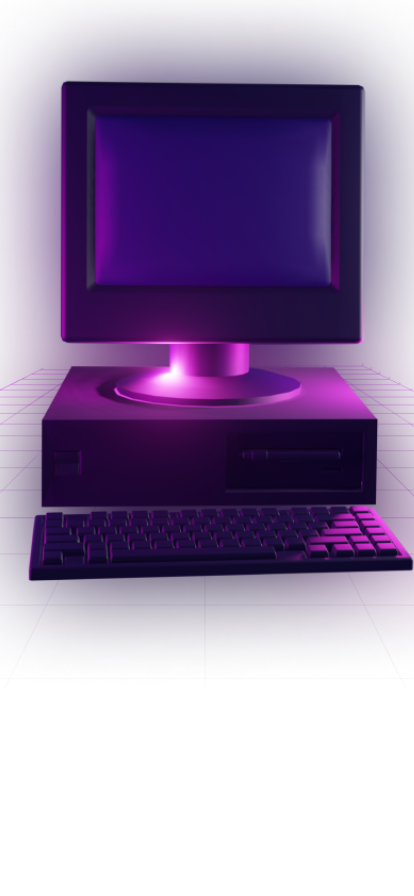
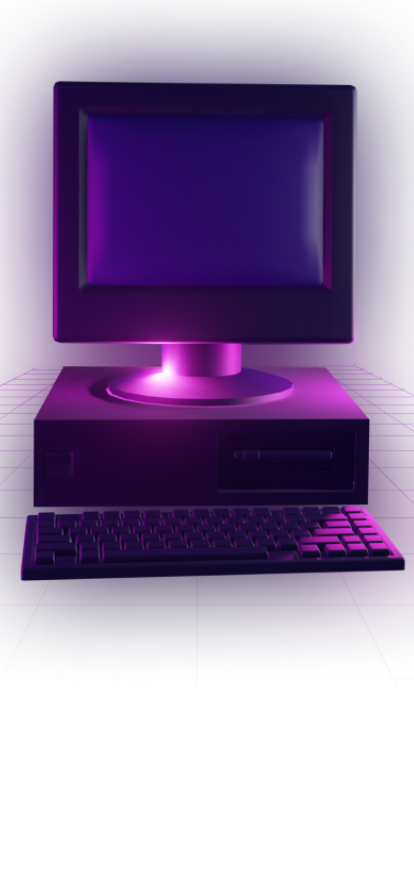
General responsive and some 2k display styles

diff --git a/packages/web/components/Landing/WhatDo.tsx b/packages/web/components/Landing/WhatDo.tsx
@@ -26,16 +26,19 @@ export const WhatDo: React.FC = () => {
   return (
     <FullPageContainer
       bgImageUrl={responsiveBg}
-      backgroundBlendMode={{ base: 'normal', lg: 'normal' }}
+      backgroundBlendMode="normal"
+      backgroundPosition={{ base: 'top', xl: 'center' }}
+      backgroundSize={{ base: 'contain', xl: 'cover' }}
+      backgroundRepeat="no-repeat"
       id={section}
       position="relative"
       overflow="clip"
     >
       <Container
         d="flex"
-        maxW={{ base: '100%', md: 'xl', lg: '7xl', '2xl': '8xl' }}
+        maxW={{ base: '100%', md: 'xl', lg: '7xl', '2xl': '8xl', '4xl': '70%' }}
         height="100%"
-        alignItems="center"
+        alignItems={{ base: 'flex-start', xl: 'center' }}
         justifyContent="center"
       >
         <Box
@@ -43,15 +46,22 @@ export const WhatDo: React.FC = () => {
           display="flex"
           flexDirection="column"
           justifyContent={{ base: 'flex-start', xl: 'center' }}
-          fontSize={{ base: 'md', md: 'xl', xl: '3xl', '2xl': '3xl' }}
+          fontSize={{ base: 'md', md: 'xl', xl: 'xl', '2xl': '3xl' }}
           lineHeight={{
             base: '1.25rem',
             md: '2.4rem',
             xl: '2rem',
             '2xl': '2.5rem',
           }}
-          maxWidth={{ base: '90%', md: '3xl', xl: '6xl', '2xl': '8xl' }}
-          maxH={{ base: '70%', md: '90%', xl: 'initial' }}
+          maxWidth={{
+            base: '90%',
+            md: '3xl',
+            xl: '5xl',
+            '2xl': '8xl',
+            '4xl': '100%',
+          }}
+          maxH={{ base: '60%', md: '90%', lg: 'initial' }}
+          mt={{ base: '50%', xl: 'unset' }}
           overflowY={{ base: 'auto', xl: 'visible' }}
           pl={{ base: 0, md: 0 }}
           zIndex={100}
@@ -64,7 +74,11 @@ export const WhatDo: React.FC = () => {
               fontSize: { base: 'xl', md: '3xl', xl: '3xl', '2xl': '4xl' },
               textAlign: 'center',
               textShadow: '0 0 5px var(--chakra-colors-landing500)',
-              transform: { base: 'none', xl: 'translate3d(0, 10px, 0)' },
+              transform: {
+                base: 'none',
+                xl: 'translate3d(0, 15px, 0)',
+                '4xl': 'translate3d(0, -60px, 0)',
+              },
             },
           }}
         >
@@ -74,12 +88,10 @@ export const WhatDo: React.FC = () => {
           <UnorderedList
             d={{ base: 'flex', lg: 'grid' }}
             flexFlow={{ base: 'column wrap', lg: 'unset' }}
-            // maxH="50%"
-            pb={{ base: 2, xl: 3, '2xl': '2.188rem' }}
+            pb={{ base: 2, xl: 0, '2xl': '2.188rem' }}
             listStyleType="none"
-            mt={{ base: 3, '2xl': -14 }}
+            mt={{ base: 8, xl: 0, '2xl': -14 }}
             ml={0}
-            // opacity="0.8"
             sx={{
               gridTemplateAreas: {
                 base: 'unset',
@@ -90,23 +102,23 @@ export const WhatDo: React.FC = () => {
               li: {
                 flex: { base: '0 0 100%' },
                 width: { base: '100%' },
-                mb: { base: 4, '2xl': 20 },
+                mb: { base: 4, xl: 8, '2xl': 14 },
                 h3: {
-                  fontSize: { base: 'lg', '2xl': '2xl' },
-                  lineHeight: { base: 'lg', '2xl': '1.7rem' },
-                  mb: { base: 2, md: 2 },
+                  fontSize: { base: 'lg', xl: 'xl', '2xl': '2xl' },
+                  lineHeight: { base: '1.25rem', '2xl': '1.75rem' },
+                  mb: { base: 0, '2xl': 2 },
                   span: {
                     color: 'landing300',
                     display: { base: 'inline', xl: 'block' },
-                    fontSize: { base: 'md', md: 'lg', '2xl': 'md' },
+                    fontSize: 'md',
                     pr: { base: 2, xl: 0 },
                     pl: { base: 0, xl: 2 },
-                    pb: { base: 0, md: 0, lg: 3, '2xl': 0 },
+                    pb: { base: 0, md: 0, '2xl': 0 },
                   },
                 },
                 p: {
                   fontSize: { base: 'sm', md: 'lg', xl: 'md', '2xl': 'md' },
-                  lineHeight: { base: '1.25rem', md: '1.75rem', lg: 'md' },
+                  lineHeight: { base: '1.25rem', '2xl': '1.75rem' },
                 },
               },
             }}
@@ -154,7 +166,7 @@ export const WhatDo: React.FC = () => {
 
           <Text
             fontWeight={700}
-            width={{ base: '95%', xl: '70%', '2xl': '50%' }}
+            width={{ base: '95%', xl: '100%', '2xl': '50%' }}
             align="center"
             mx="auto"
           >

diff --git a/packages/web/components/Landing/WildWeb.tsx b/packages/web/components/Landing/WildWeb.tsx
@@ -19,15 +19,20 @@ export const WildWeb: React.FC = () => {
   return (
     <FullPageContainer
       bgImageUrl={responsiveBg}
-      backgroundBlendMode={{ base: 'normal', lg: 'normal' }}
-      backgroundColor="#120030"
+      backgroundBlendMode="normal"
       backgroundPosition="center"
       id={section}
       position="relative"
     >
       <Container
         d="flex"
-        maxW={{ base: '100%', md: 'xl', lg: '7xl', '2xl': 'full' }}
+        maxW={{
+          base: '100%',
+          md: 'xl',
+          lg: '7xl',
+          '2xl': 'full',
+          '4xl': '90%',
+        }}
         px={{ base: 'inherit', lg: 14 }}
         height="100%"
         alignItems="center"
@@ -38,7 +43,7 @@ export const WildWeb: React.FC = () => {
           display="flex"
           flexDirection="column"
           justifyContent="center"
-          maxWidth={{ base: '90%', md: '3xl', xl: '6xl', '2xl': 'xl' }}
+          maxWidth={{ base: '90%', md: 'sm', '2xl': 'xl' }}
           fontSize={{ base: 'lg', '2xl': '2xl' }}
           lineHeight={{ base: 'lg', '2xl': '2xl' }}
           fontWeight="normal"

diff --git a/packages/web/components/Landing/Build.tsx b/packages/web/components/Landing/Build.tsx
@@ -32,9 +32,9 @@ export const Build: React.FC = () => {
           md: 'xl',
           lg: '7xl',
           '2xl': 'full',
-          '3xl': '8xl',
+          '4xl': '80%',
         }}
-        px={{ base: 'inherit', lg: 20, '3xl': 0 }}
+        px={{ base: 'inherit', lg: 20, '4xl': 0 }}
         height="100%"
         alignItems="center"
         justifyContent={{ base: 'center', lg: 'flex-end' }}
@@ -45,7 +45,7 @@ export const Build: React.FC = () => {
           justify="center"
           fontSize={{ base: 'lg', '2xl': '2xl' }}
           lineHeight={{ base: 'lg', '2xl': '2xl' }}
-          maxWidth={{ base: '90%', md: '3xl', xl: '6xl', '2xl': 'xl' }}
+          maxWidth={{ base: '90%', md: 'sm', '2xl': 'xl' }}
           pl={0}
           zIndex={100}
           transform={`translate3d(0, ${onScreen ? 0 : '50px'}, 0)`}

diff --git a/packages/web/components/Landing/JoinUs.tsx b/packages/web/components/Landing/JoinUs.tsx
@@ -128,11 +128,11 @@ export const JoinUs: React.FC = () => {
           alignItems="center"
           justifyContent="space-between"
           position={{ base: 'fixed', md: 'absolute' }}
-          bottom={{ base: 0, md: 16, xl: 0, '2xl': 0 }}
+          bottom={{ base: 0, md: 16, xl: 0, '2xl': 0, '4xl': 5 }}
           height="75px"
           maxH="75px"
           width="100%"
-          maxW={{ base: '90%', md: 'lg', lg: 'md', '2xl': '2xl' }}
+          maxW={{ base: '90%', md: 'lg', lg: 'md', '2xl': '2xl', '4xl': '4xl' }}
           transform={`translate3d(0, ${onScreen ? '0' : '50px'}, 0)`}
           opacity={onScreen ? 1 : 0}
           transition="transform 0.3s 2.1s ease-in-out, opacity 0.5s 2.3s ease-in"

diff --git a/packages/web/components/Landing/Game.tsx b/packages/web/components/Landing/Game.tsx
@@ -27,7 +27,13 @@ export const Game: React.FC = () => {
     >
       <Container
         d="flex"
-        maxW={{ base: '100%', md: 'xl', lg: '7xl', '2xl': 'full' }}
+        maxW={{
+          base: '100%',
+          md: 'xl',
+          lg: '7xl',
+          '2xl': 'full',
+          '4xl': '90%',
+        }}
         px={{ base: 'inherit', lg: 14 }}
         height="100%"
         alignItems="center"

diff --git a/packages/web/components/Landing/LandingHeader.tsx b/packages/web/components/Landing/LandingHeader.tsx
@@ -206,7 +206,7 @@ export const LandingHeader: React.FC = () => {
           width="100%"
           height="25%"
           bgImage={OctoBg}
-          backgroundSize={{ base: '30%', md: '20%', xl: '10%' }}
+          backgroundSize={{ base: '30%', md: '20%', xl: '10%', '4xl': '8%' }}
           backgroundPosition="bottom center"
           backgroundRepeat="no-repeat"
           opacity={0.5}

diff --git a/packages/web/components/Landing/Intro.tsx b/packages/web/components/Landing/Intro.tsx
@@ -42,7 +42,7 @@ export const Intro: React.FC<{ currentSection: number }> = ({
     <FullPageContainer
       id="start"
       bgImageUrl={responsiveBg}
-      backgroundPosition={{ base: 'top', lg: 'top' }}
+      backgroundPosition="top"
       backgroundSize="cover"
       spacing={{ base: 8, xl: 20 }}
       justify="flex-end"
